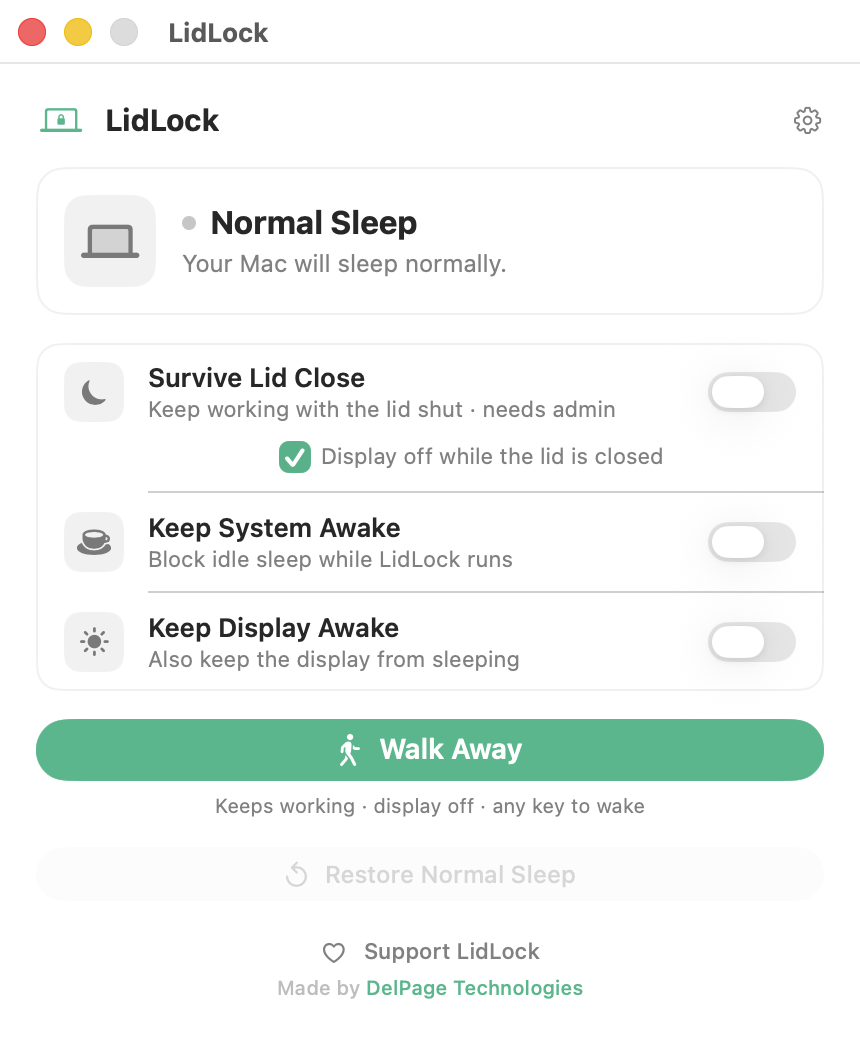
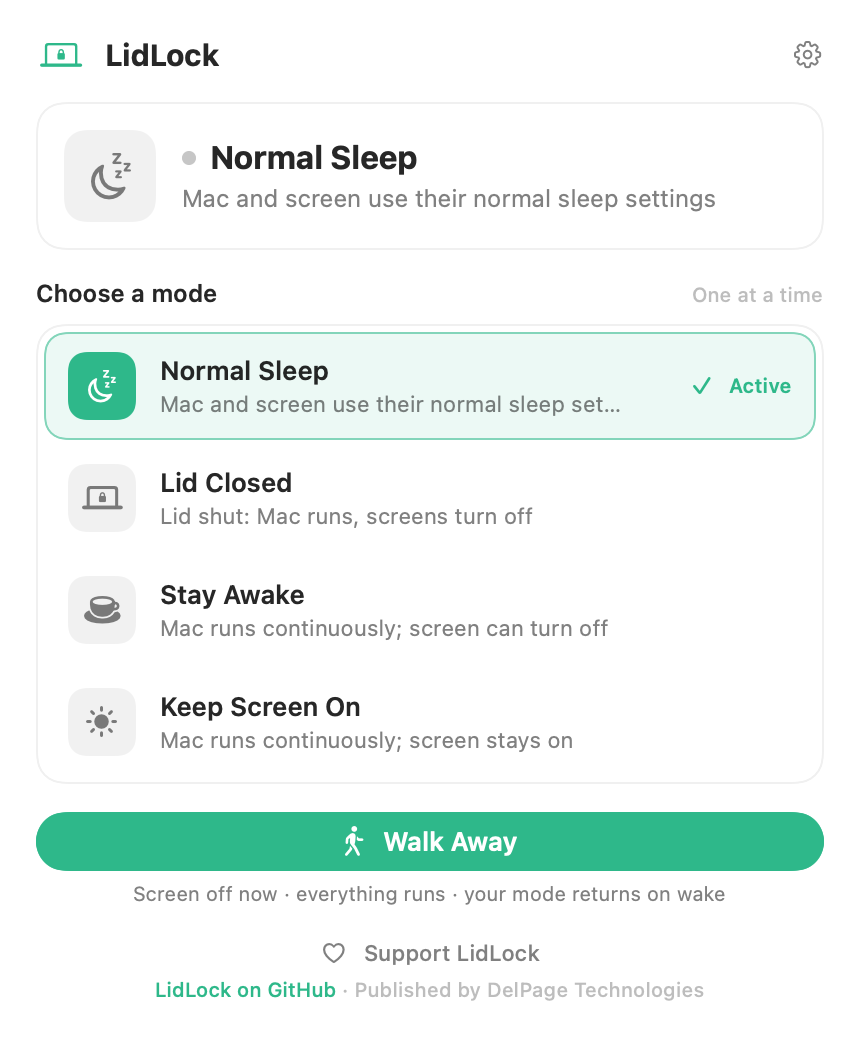
Update LidLock preview

diff --git a/README.md b/README.md
@@ -17,7 +17,11 @@ LidLock is free software published by DelPage Technologies.
 </p>
 
 <p align="center">
-  <img src="screenshots/lidlock-preview.gif" width="520" alt="LidLock preview showing normal sleep and active keep-awake states">
+  <img src="screenshots/lidlock-main.png" width="430" alt="LidLock preview showing four power modes and the Walk Away action">
+</p>
+
+<p align="center">
+  <em>Preview of the next signed LidLock update, currently being tested.</em>
 </p>
 
 ## Free Download
@@ -30,22 +34,25 @@ LidLock requires **macOS 13 Ventura or newer**. The distributed app is signed wi
 
 ## What It Does
 
-- **Survive Lid Close** keeps your MacBook running when the lid is closed.
+- **Normal Sleep** returns the Mac and display to their usual sleep settings.
+- **Lid Closed** keeps your MacBook running with the lid shut while screens turn off.
+- **Stay Awake** keeps work running while allowing the display to turn off.
+- **Keep Screen On** keeps both the Mac and its display awake.
+- **Walk Away** turns the display off immediately, keeps work running, and restores the selected mode when the display wakes.
 - **Password-free lid control** can install a signed helper from Settings so approved users do not have to enter their password every time.
-- **Keep System Awake** blocks idle system sleep while LidLock runs.
-- **Keep Display Awake** prevents the display from sleeping.
-- **Walk Away** keeps work running while turning the display off.
-- **Restore Normal Sleep** releases LidLock's protections and returns macOS to normal behavior.
 - Closing the window keeps LidLock available in the menu bar; reopen it from
   **Open LidLock** or quit it explicitly from the same menu.
 
 LidLock always shows the real current system state, so you can see what is keeping the Mac awake and turn it off quickly.
 
-## Screenshots
+## Next Update Preview
 
-| Normal sleep | Active keep-awake |
+These screenshots show the redesigned mode interface now in testing. The
+download above remains version 1.1.3 until the next signed release is published.
+
+| Four clear modes | First-run guide |
 |---|---|
-| ![LidLock normal sleep screen](screenshots/lidlock-main.png) | ![LidLock active keep-awake screen](screenshots/lidlock-active.png) |
+| ![LidLock four-mode screen](screenshots/lidlock-main.png) | ![LidLock first-run guide](screenshots/lidlock-onboarding.png) |
 
 ## Privacy
 